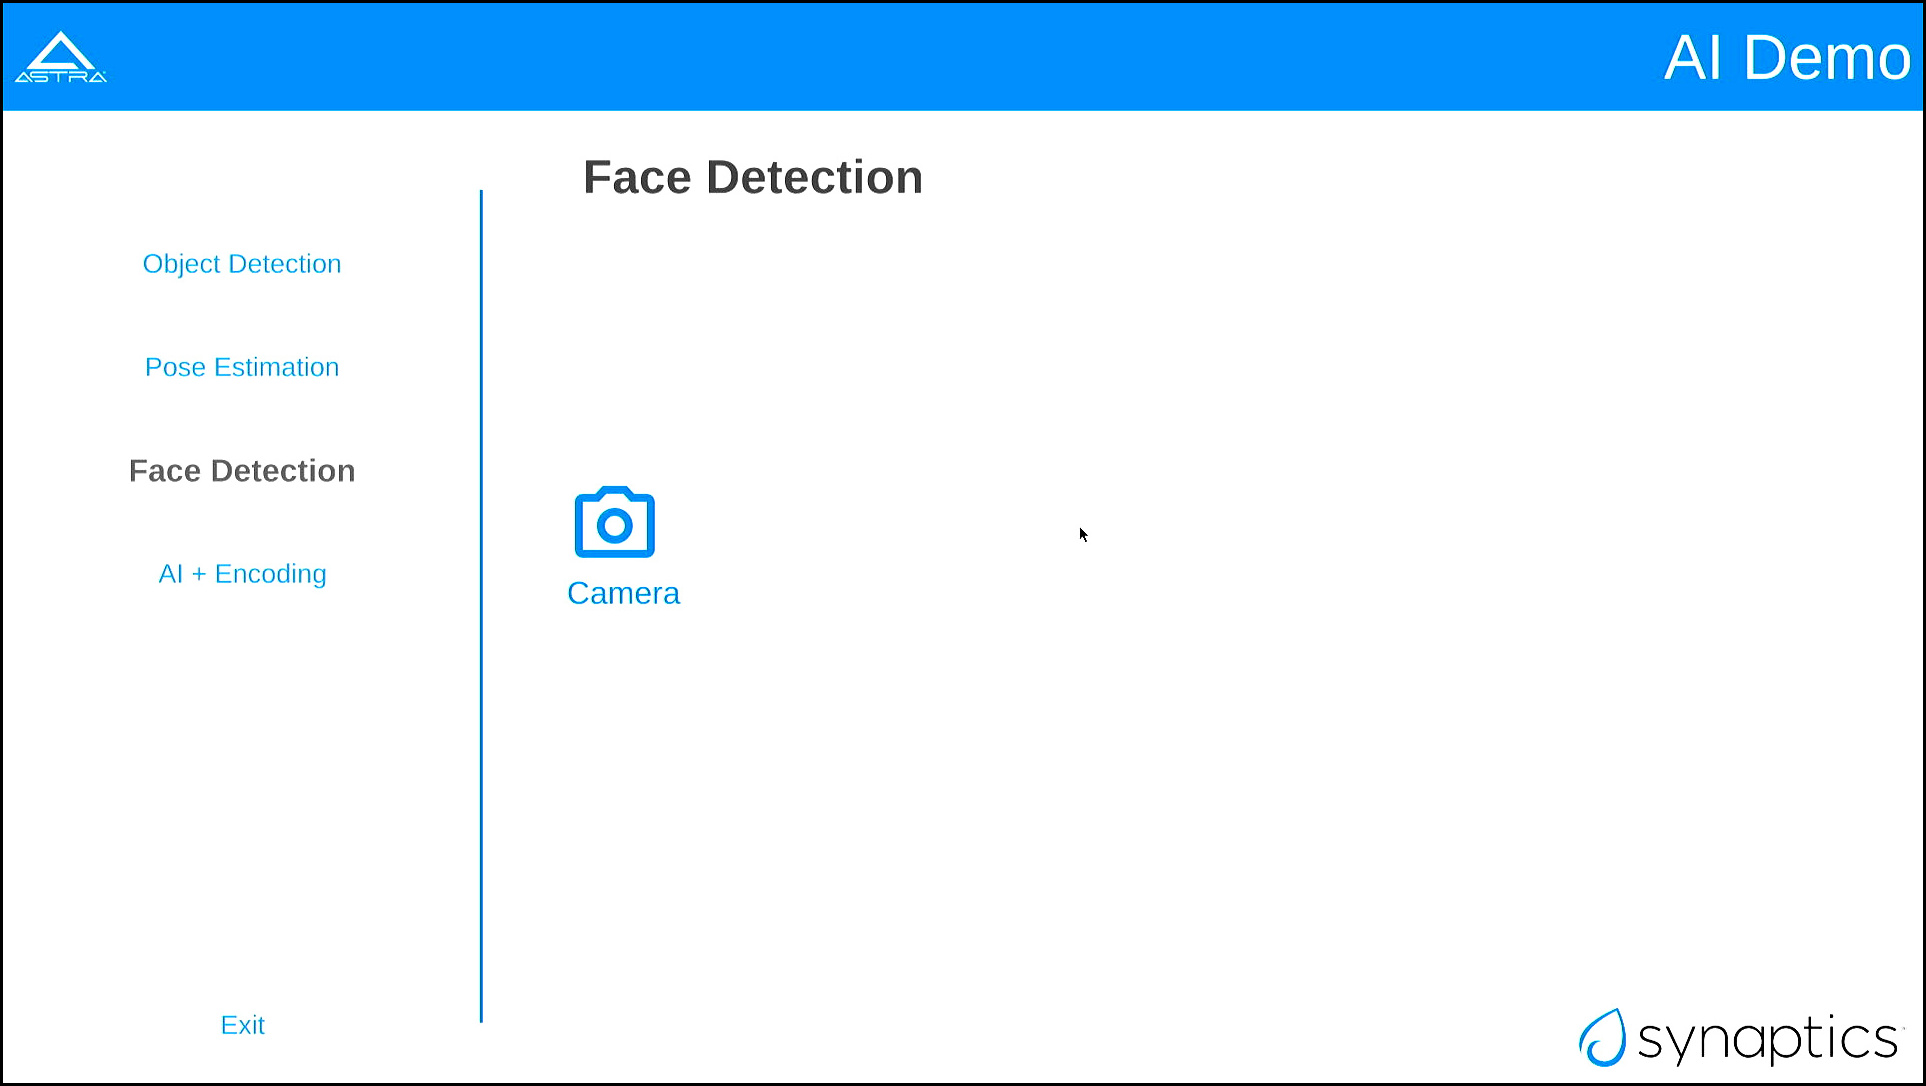
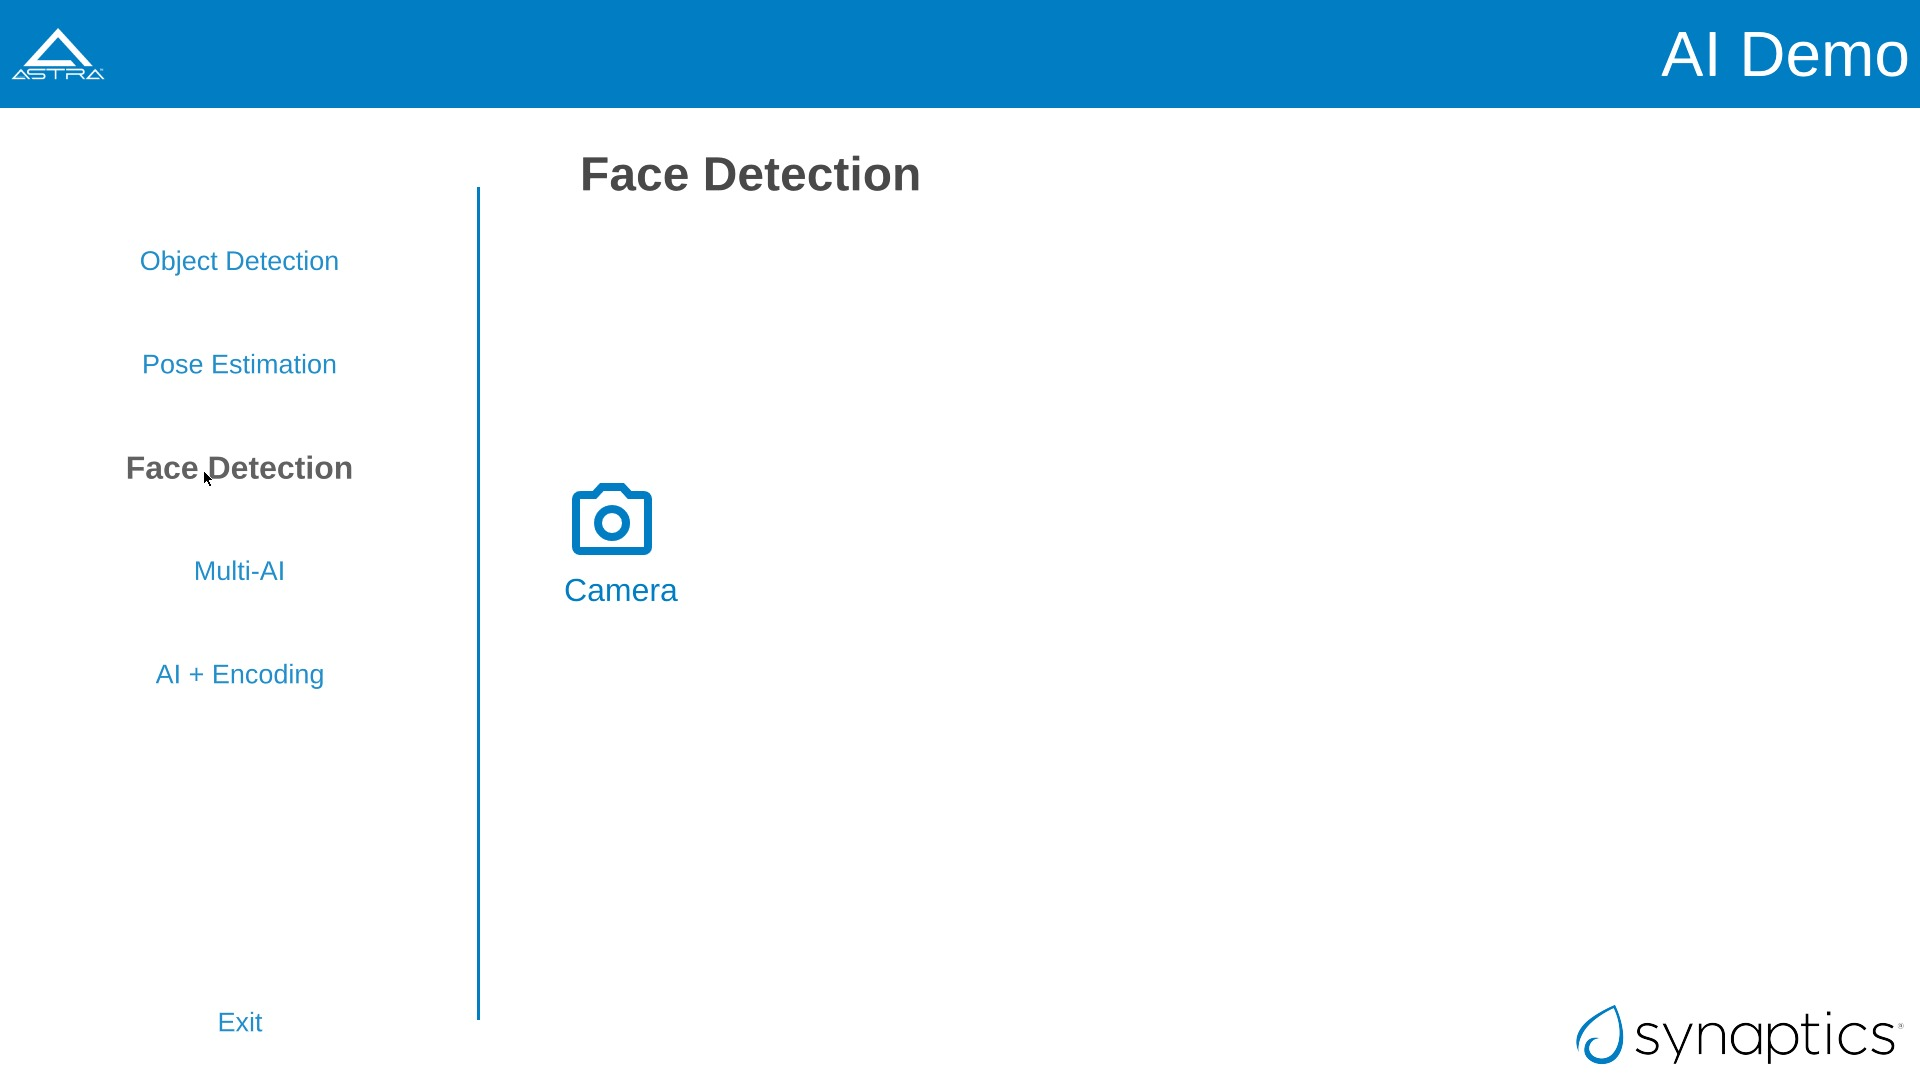
quickstart: oobe: Add new demos for 1.5.0 (#181)
quickstart: oobe: Add new demos for 1.5.0

---------

diff --git a/quickstart/oobe.rst b/quickstart/oobe.rst
@@ -16,10 +16,6 @@ At the bottom is a quick access panel with icons which will launch the three app
 - Chromium Browser
 - SynaExplorer
 
-.. note::
-
-    The customized Weston desktop only supports one display at a time.
-
 Terminal
 --------
 
@@ -34,10 +30,6 @@ Chromium can be launched by clicking the Chromium icon in the quick access panel
 
 .. figure:: media/chromium.jpg
 
-.. note::
-
-    Chromium's state is not saved. Stored bookmarks and setting will be cleared on reboot.
-
 SynaExplorer
 ------------
 
@@ -51,7 +43,7 @@ Open the SynaExplorer app by clicking the icon with the four squares in the quic
     SynaExplorer icon highlighted in quick access panel
 
 The app opens to the landing page, with demo category buttons on the left and a "Getting Started" pane on the right.
-The pane displays a thumbnail of the Astra promo video, which plays when clicked. The app uses Gstreamer to handle
+The pane displays a thumbnail of the Astra intro video, which plays when clicked. The app uses Gstreamer to handle
 video and audio playback of the video file.
 
 .. figure:: media/syna-explorer-getting-started.jpg
@@ -93,7 +85,7 @@ Use the dropdown to the right of the "Video 1" label to select a source.
 
     Video Player on dropdown menu on SL1640
 
-Use the "Update RTSP Urls" windows to set the RTSP URL when using a RTSP camera as the source.
+Use the "Update RTSP Urls" windows to set the RTSP URL when using a RTSP camera as the source. After entering the RTSP URL, press OK button.
 
 .. figure:: media/syna-video-player-rtsp.jpg
 
@@ -162,7 +154,8 @@ Syna AI
 The fourth button on the left is the "AI" button, which opens the "AI" pane. This pane contains a button to launch the
 "AI Player" app, which includes object detection, pose estimation, and face detection examples. There is also an example
 which does object detection using a USB camera and encodes then streams the output over UDP. SL1680 supports Multi-AI
-which supports doing AI inferencing on four streams and outputting the result to the display.
+which supports doing AI inferencing on four streams and outputting the result to the display. SL1680 supports AI inferencing
+on muxed stream of 3x3 tiles composed from 4 USB camera streams and outputting the result to the display. 
 
 .. figure:: media/syna-explorer-ai-pane.jpg
 
@@ -207,9 +200,19 @@ The face detection example uses a YOLOv5 model to detect faces using a USB camer
 Multi-AI
 """"""""
 
-SL1680 supports AI inferencing of four camera streams and displaying the output. The streams can be from four USB cameras
-at 640x480 resolution or four RTSP camera at 1080p15. RTSP streams can be configured using the "Update RTSP Urls" window.
-In this example, person detection is performed on all four streams.
+SL1680 Multi-AI supports 3 different demos:
+
+1) USB Camera: 4 different AI inferencing of four camera streams and displaying the output. The streams
+can be from four USB cameras at 640x480 resolution.
+
+2) AI on Muxed 9x480p: Single AI inferencing of muxed stream of multiple cameras and displaying the output.
+The streams can be from four USB cameras at 640x480 resolution. In this example, total 9 streams of 640x480p 
+(some are duplicated) from 4 diferent USB cameras are tiles into single frame using GPU and object detection
+is performed on the muxed frame and then displayed with bounding box and label.
+
+3) RTSP Camera: AI inferencing of four RTSP camera streams and displaying the output. The streams are from four
+RTSP camera at 1080p15. RTSP streams can be configured using the "Update RTSP Urls" window. In this example, person
+detection is performed on all four streams.
 
 .. figure:: media/syna-ai-player-multi-ai.jpg
 
@@ -257,3 +260,87 @@ or, run this command on Linux::
 
     gst-launch-1.0 udpsrc port=8003 ! "application/x-rtp, media=video, clock-rate=90000,encodingname=H264, \
         payload=96" ! queue ! rtph264depay ! h264parse ! avdec_h264 ! autovideosink
+
+
+Capability Demo
+^^^^^^^^^^^^^^^
+
+The fifth button on the left is the "Capability Demo" button, which opens the "Capability Demos" pane. This pane contains a button to launch the
+"Best Case" app, which demonstrates the capability of the platform.
+
+.. figure:: media/syna-capability-demo-pane.jpg
+
+    Capability Demo pane on SL1640
+
+Best Case
+"""""""""
+
+The example demonstrates one of the best usecase which platfrom can support.
+
+.. note::
+
+    This example doesn't define the limit for individual IP block. Refer datasheet for checking complete capabilities of individual IP block.
+
+This Best Case demo app demonstrates the capability of platform running multiple things concurently as mentioned below:
+
+SL1680:
+1. Multiple decoding: 4 Streams of 1920x1080@25 & 4 streams of 1280x720@25
+2. USB camera streaming and preview of 640x480@30
+3. Mixing of streams mentioned in #1 & #2 and rendering to display
+4. HDMI-RX stream receiving from Laptop (upto 4K60) and rendering to display
+
+SL1640:
+1. Multiple decoding: 9 streams of 640x480@25
+2. Mixing of streams mentioned in #1 and rendering to display
+
+SL1620:
+1. Multiple decoding: 2 streams of 640x480@30 using FFMpeg SW
+2. Mixing of streams mentioned in #1 and rendering to display
+
+A window will open where selection of different H.264 video files can be made. Number of selection depends on platform capability.
+
+.. figure:: media/syna-best-case-sl1680.jpg
+
+    Best case on SL1680
+
+Click on left side buttons, to select a file. A file explorer will open which will allow to navigate and select a file.
+
+.. figure:: media/syna-best-case-file-select.jpg
+
+    Best case H.264 file selection
+
+Click on "SAVE SETTINGS" button to save selections. Click on "PLAY" button to start.
+
+
+
+Settings
+^^^^^^^^
+
+The sixth button on the left is the "Settings" button, which opens the "Settings" pane. This pane contains options to configure global
+settings for different SynaExplorer demo applications.
+
+.. note::
+
+    Defaults will be used if settings is not used to configure.
+
+.. figure:: media/settings-pane.jpg
+
+    Settings pane on SL1680
+
+First section is for configuring the priority for the USB camera format selection. Click on the right side highlighted buttons to raise or
+lower the priority of specific format. Once done click on "Save Priorities" button.
+
+.. figure:: media/settings-priorities-crop.jpg
+
+    USB camera format priority settings on SL1680
+
+Second section is for configuring the RTSP URLs. After entering the RTSP URLs, click on "Save URLs" button. RTSP URLs can be verified by
+clicking on "Validate URLs" button to check if they are alive and reachable. Also it shows streaming media information.
+
+.. figure:: media/settings-rtsp-urls-crop.jpg
+
+    RTSP URLs settings on SL1680
+
+.. figure:: media/settings-rtsp-urls-validate-crop.jpg
+
+    RTSP URLs Validation on SL1680
